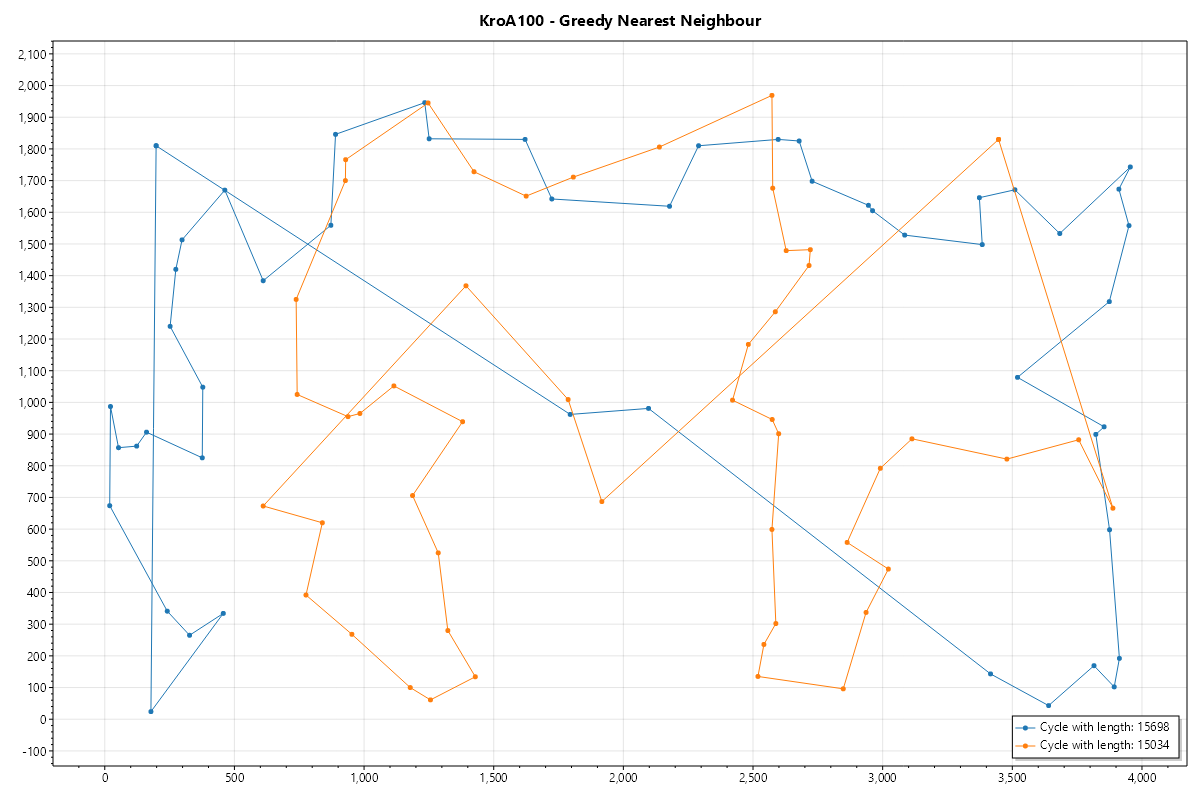
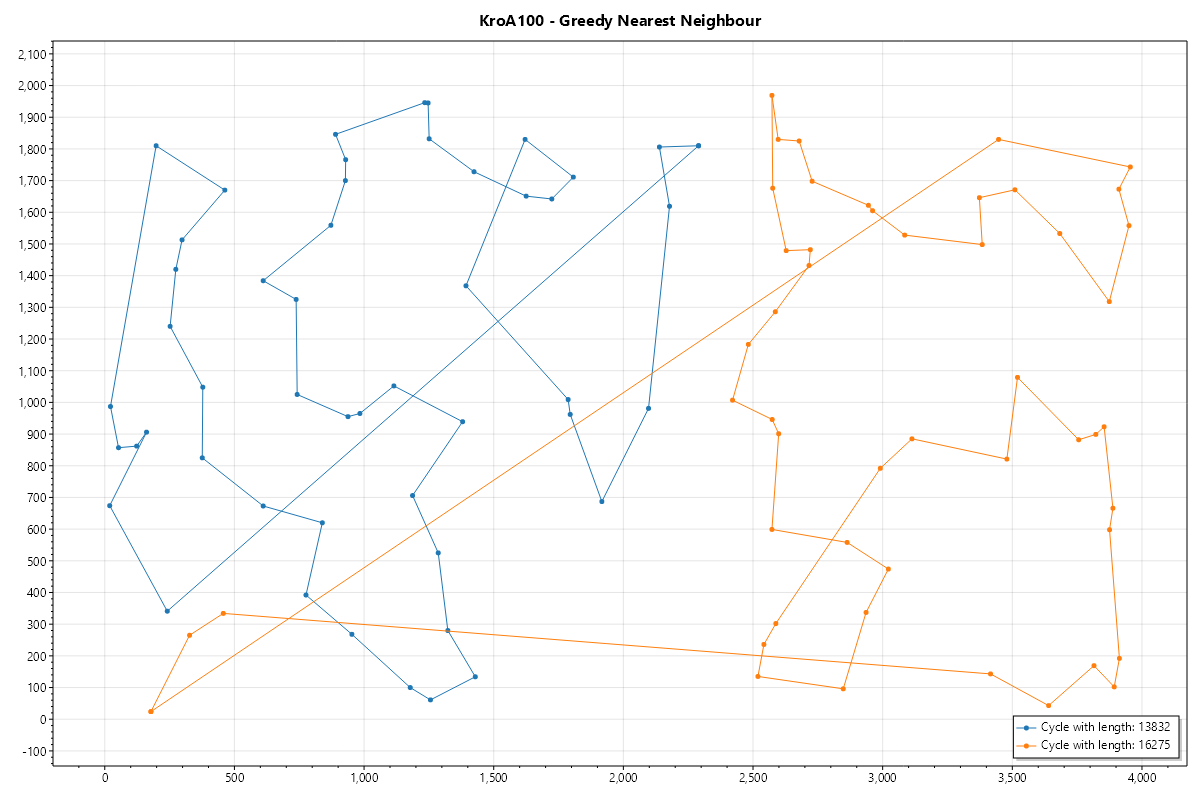
add winforms and skewed greedy cycle expansion

diff --git a/imo-2023/Program.cs b/imo-2023/Program.cs
@@ -1,10 +1,71 @@
 using imo_2023.Algorithms;
 using imo_2023.DataStructures;
+using ScottPlot.WinForms;
 
-var instance = Instance.KroA;
-var (first, second) = instance.SearchWithDoubleGreedyNearestNeighbour();
+const string HelpMessage = """
+Usage: imo-2023 <instance> <algorithm> ?--save ?--view
+- Instance: kroA100, kroB100
+- Algorithm: nearest-neighbour, cycle-expansion
+- --save: Save the chart to the resources/graphs directory
+- --view: View the chart in a window (Windows only)
+""";
+var ValidAlgorithms = new[] { "greedy-nearest-neighbour", "greedy-cycle-expansion" };
+var ValidInstances = new[] { "kroA100", "kroB100" };
+
+if (args.ElementAtOrDefault(0) == "--help") {
+  WriteLine(HelpMessage);
+  return 2;
+}
+
+var errors = new List<string>();
+if (args.Length > 2) errors.Add("Too many arguments!");
+else if (args.Length != 2) errors.Add("Too few arguments!");
+
+if (!ValidInstances.Contains(args.ElementAtOrDefault(0))) errors.Add("Invalid instance!");
+if (!ValidAlgorithms.Contains(args.ElementAtOrDefault(1))) errors.Add("Invalid algorithm!");
+if (errors.Count > 0) {
+  WriteLine(HelpMessage);
+  errors.ForEach(e => WriteLine($"  - Error: {e}"));
+  return 1;
+}
+var instance = Instance.Read(args[0]);
+var algorithm = args[1];
 
 var chart = CreateChart();
-chart.Add.Cycle(first, instance).Cycle(second, instance);
-chart.Title.Label.Text = "KroA100 - Greedy Nearest Neighbour";
-chart.Save("kroA100-greedy-nearest-neighbour");
+switch (algorithm) {
+  case "greedy-nearest-neighbour": {
+    var (first, second) = instance.SearchWithDoubleGreedyNearestNeighbour();
+
+    chart.Add.Cycle(first, instance).Cycle(second, instance);
+    chart.Title.Label.Text = "KroA100 - Greedy Nearest Neighbour";
+    break;
+  }
+  case "greedy-cycle-expansion": {
+    var path = instance.SearchWithGreedyCycleExpansion();
+
+    chart.Add.Cycle(path, instance);
+    chart.Title.Label.Text = "KroA100 - Greedy Cycle Expansion";
+    break;
+  }
+}
+
+var parent = new Form();
+var form = new FormsPlot();
+form.View(chart);
+form.Parent = parent;
+parent.HandleCreated += (_, _) => {
+  form.Width = parent.ClientSize.Width;
+  form.Height = parent.ClientSize.Height;
+};
+parent.Resize += (sender, cd) => {
+  var control = (Control)sender!;
+ 
+  form.Width = parent.ClientSize.Width;
+  form.Height = parent.ClientSize.Height;
+  chart.Add.Scatter(new double[] { control.Size.Width }, new double[] { control.Size.Height });
+};
+
+parent.Show();
+while (parent.Created) Application.DoEvents();
+
+return 0;

diff --git a/imo-2023/DataStructures/Instance.cs b/imo-2023/DataStructures/Instance.cs
@@ -29,35 +29,20 @@ internal record Instance(int Dimension, IReadOnlyList<Node> Nodes, int[,] Distan
   public int this[Node first, Node second] => Distances[first.Index, second.Index];
 
   public Node ClosestTo(Node node, IEnumerable<Node>? except = null) {
-    var closest = node;
-    var excepted = except?.ToHashSet() ?? new HashSet<Node>();
+    except ??= new List<Node>();
 
-    var distances = Distances.ReadRow(node.Index);
-    for (var i = 0; Dimension > i; ++i)
-      if (!excepted.Contains(Nodes[i]) && (closest.Index == node.Index || distances[i] < distances[closest.Index]))
-        closest = Nodes[i];
-
-    return closest;
+    return Nodes.Except(except.Concat(Yield(node))).MinBy(n => this[node, n])!;
   }
 
   public Node FurthestTo(Node node, IEnumerable<Node>? except = null) {
-    var furthest = node;
-    var excepted = except?.ToHashSet() ?? new HashSet<Node>();
+    except ??= new List<Node>();
 
-    var distances = Distances.ReadRow(node.Index);
-    for (var i = 0; Dimension > i; ++i)
-      if (!excepted.Contains(Nodes[i]) && (furthest.Index == node.Index || distances[i] < distances[furthest.Index]))
-        furthest = Nodes[i];
-
-    return furthest;
+    return Nodes.Except(except.Concat(Yield(node))).MaxBy(n => this[node, n])!;
   }
 
-  public int DistanceOf(IEnumerable<Node> path) {
-    var items = path.ToArray();
-    var distance = 0;
+  public int DistanceOf(IEnumerable<Node> cycle) {
+    var items = cycle.ToArray();
 
-    for (var i = 0; i < items.Length - 1; ++i) distance += Distances[items[i].Index, items[i + 1].Index];
-
-    return distance;
+    return this[items[0], items[^1]] + items.Pairwise().Sum(p => this[p.a, p.b]);
   }
 }

diff --git a/imo-2023/Algorithms/GreedyCycleExpansionInstanceExtensions.cs b/imo-2023/Algorithms/GreedyCycleExpansionInstanceExtensions.cs
@@ -3,5 +3,29 @@ using imo_2023.DataStructures;
 namespace imo_2023.Algorithms;
 
 internal static class GreedyCycleExpansionInstanceExtensions {
-  public static void SearchWithGreedyCycleExpansion(this Instance instance) { }
+  public static IEnumerable<Node> SearchWithGreedyCycleExpansion(this Instance instance) {
+    var start = Node.Choose(instance.Nodes);
+    var closest = instance.ClosestTo(start);
+
+    var cycle = new List<Node> { start, closest };
+    var distance = instance.DistanceOf(cycle);
+
+    while (cycle.Count < instance.Dimension) {
+      var distances = new List<(int i, int distance)>();
+
+      foreach (var first in cycle) {
+        foreach (var second in cycle.Except(Yield(first))) {
+          foreach (var considered in instance.Nodes.Except(cycle)) {
+            var newDistance = distance - instance[first, second] + instance[first, considered] + instance[considered, second];
+
+            distances.Add((considered.Index, newDistance));
+          }
+        }
+      }
+
+      cycle.Add(instance.Nodes[distances.MinBy(d => d.distance).i]);
+    }
+
+    return cycle;
+  }
 }

diff --git a/imo-2023/Methods/ChartMethods.cs b/imo-2023/Methods/ChartMethods.cs
@@ -1,5 +1,7 @@
 using imo_2023.DataStructures;
+using Microsoft.VisualBasic.ApplicationServices;
 using ScottPlot;
+using ScottPlot.WinForms;
 
 namespace imo_2023.Methods;
 
@@ -22,5 +24,10 @@ internal static class ChartMethods {
     if (!Directory.Exists($"{ProjectDirectory}/resources/graphs")) Directory.CreateDirectory($"{ProjectDirectory}/resources/graphs");
 
     chart.SavePng($"{ProjectDirectory}/resources/graphs/{filename}.png", 1200, 800);
+  }
+  public static void View(this FormsPlot form, Plot chart) {
+    if (!Directory.Exists($"{ProjectDirectory}/resources/graphs")) Directory.CreateDirectory($"{ProjectDirectory}/resources/graphs");
+    form.Reset(chart);
+    form.Refresh();
   }
 }

diff --git a/imo-2023/Extensions/IEnumerableExtensions.cs b/imo-2023/Extensions/IEnumerableExtensions.cs
@@ -1,0 +1,15 @@
+namespace imo_2023.Extensions;
+
+internal static class IEnumerableExtensions {
+  public static IEnumerable<T> Yield<T>(T item) {
+    yield return item;
+  }
+
+  public static IEnumerable<(T a, T b)> Pairwise<T>(this IEnumerable<T> source) {
+    var previous = default(T);
+    using var it = source.GetEnumerator();
+
+    if (it.MoveNext()) previous = it.Current;
+    while (it.MoveNext()) yield return (previous!, previous = it.Current);
+  }
+}

diff --git a/imo-2023/DataStructures/Node.cs b/imo-2023/DataStructures/Node.cs
@@ -11,8 +11,8 @@ internal record Node(int Index, int X, int Y) {
   public int DistanceTo(Node other) => (int)Math.Round(Math.Sqrt(Math.Pow(X - other.X, 2) + Math.Pow(Y - other.Y, 2)));
 
   public static Node Choose(IEnumerable<Node> nodes) {
-    var items = nodes.ToList();
+    var items = nodes.ToArray();
 
-    return items[Random.Next(items.Count)];
+    return items[Random.Next(items.Length)];
   }
 }

diff --git a/imo-2023/Prelude.cs b/imo-2023/Prelude.cs
@@ -2,4 +2,6 @@ global using System;
 global using static System.Console;
 global using static imo_2023.Methods.LogMethods;
 global using static imo_2023.Methods.ChartMethods;
+global using static imo_2023.Extensions.MatrixExtensions;
+global using static imo_2023.Extensions.IEnumerableExtensions;
 global using static imo_2023.Globals;
